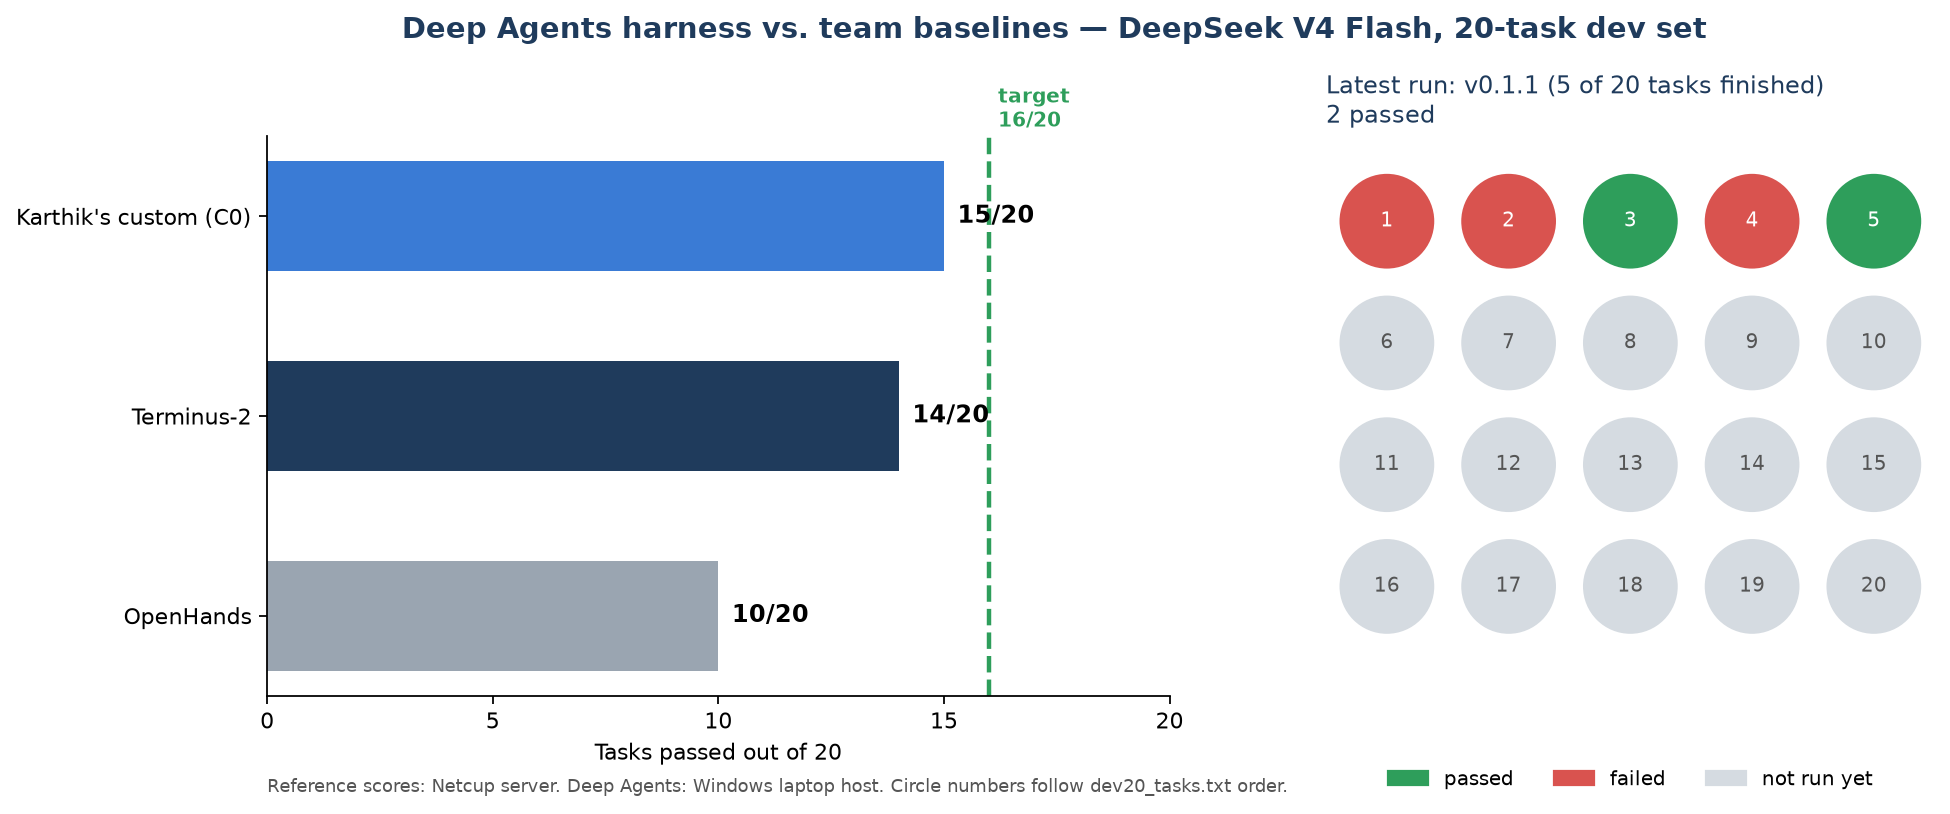
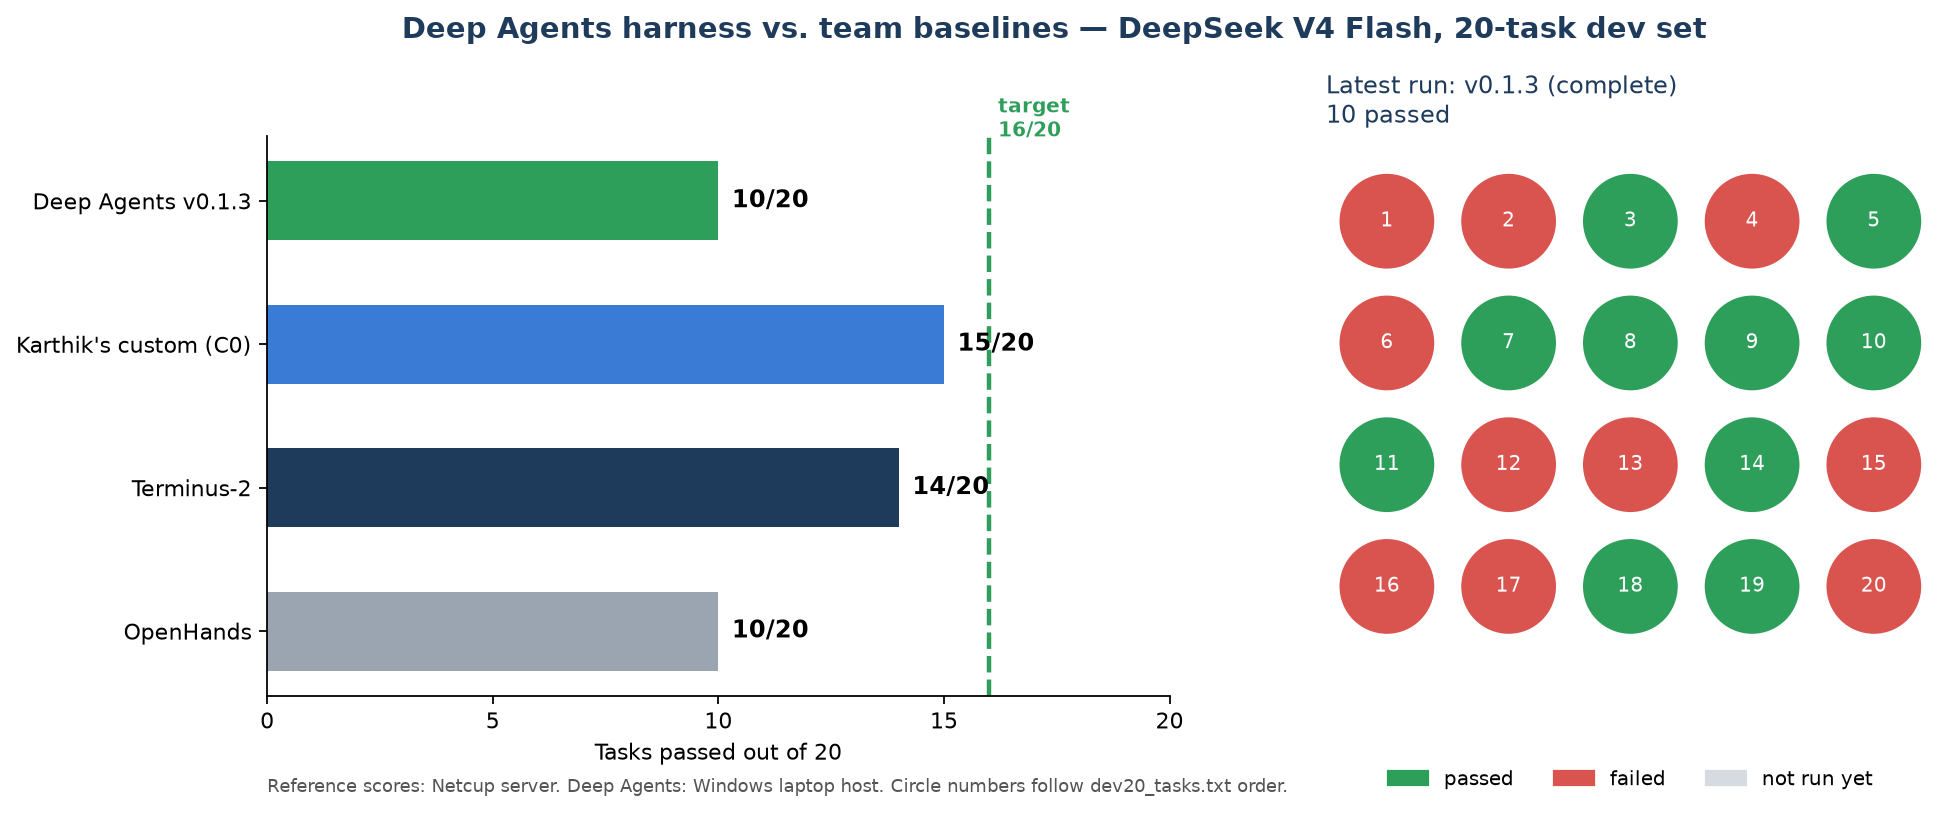
Add dev-20 results: Deep Agents 0.1.3 10/20, Terminus-2 same-host partial 9/16

diff --git a/README.md b/README.md
@@ -11,9 +11,10 @@ agent harness and comparing it with the client baselines on Terminal-Bench 2.1.
 | | |
 |---|---|
 | Harness | Deep Agents, version 0.1.3 |
+| Latest full result | **10/20** on the dev set (`dev20-v0.1.3`, Windows laptop) |
 | Running now | repeat study: 3 dev-set runs each of this harness and Terminus-2 on the same laptop |
-| Best result so far | one-task test passed; 2 of 5 finished tasks passed in the first 20-task trial |
-| Score to beat | Terminus-2 14/20 on the dev set (target: 16/20 before a full 89-task run) |
+| Same-laptop Terminus-2 | 9 passed of the first 16 tasks (run in progress); this harness passed 8 of those 16 |
+| Reference scores | Terminus-2 14/20 and Karthik's C0 15/20, both on the Netcup server |
 
 ![Progress chart](results/harshini/progress.png)
 
@@ -31,7 +32,9 @@ Runs on the Windows laptop with Harbor and Docker; the model is called through O
 | [`dev20-v0.1.1`](results/harshini/deepagents/dev20-v0.1.1.csv) | 0.1.1 | 5 of 20 finished | **2 passed** | host went down; 2 failures were harness bugs |
 | `dev20-v0.1.2` | 0.1.2 | 3 of 20 | no score | provider overload; all 3 ended on rate-limit errors (retry added in 0.1.3) |
 | [`probe-openssl-terminus2`](results/harshini/deepagents/probe-openssl-terminus2.csv) | Terminus-2 | 1 | **1/1** | Terminus-2 with the reference settings runs on the laptop |
-| `dev20-v0.1.3` (+ r2, r3) | 0.1.3 | 20 each | running | repeat study, alternating with Terminus-2 r1–r3 |
+| [`dev20-v0.1.3`](results/harshini/deepagents/dev20-v0.1.3.csv) | 0.1.3 | 20 | **10/20** | repeat study run 1; both `qemu` tasks fail on this host |
+| [`dev20-terminus2-r1`](results/harshini/deepagents/dev20-terminus2-r1.csv) | Terminus-2 | 16 of 20 so far | **9 passed** | same laptop; also fails both `qemu` tasks (passed on Netcup) |
+| `dev20-v0.1.3-r2`, `-r3`, `dev20-terminus2-r2`, `-r3` | both | 20 each | queued | rest of the repeat study |
 
 Fixes between versions are listed in the
 [harness changelog](experiments/harshini-deepagents/CHANGELOG.md).
